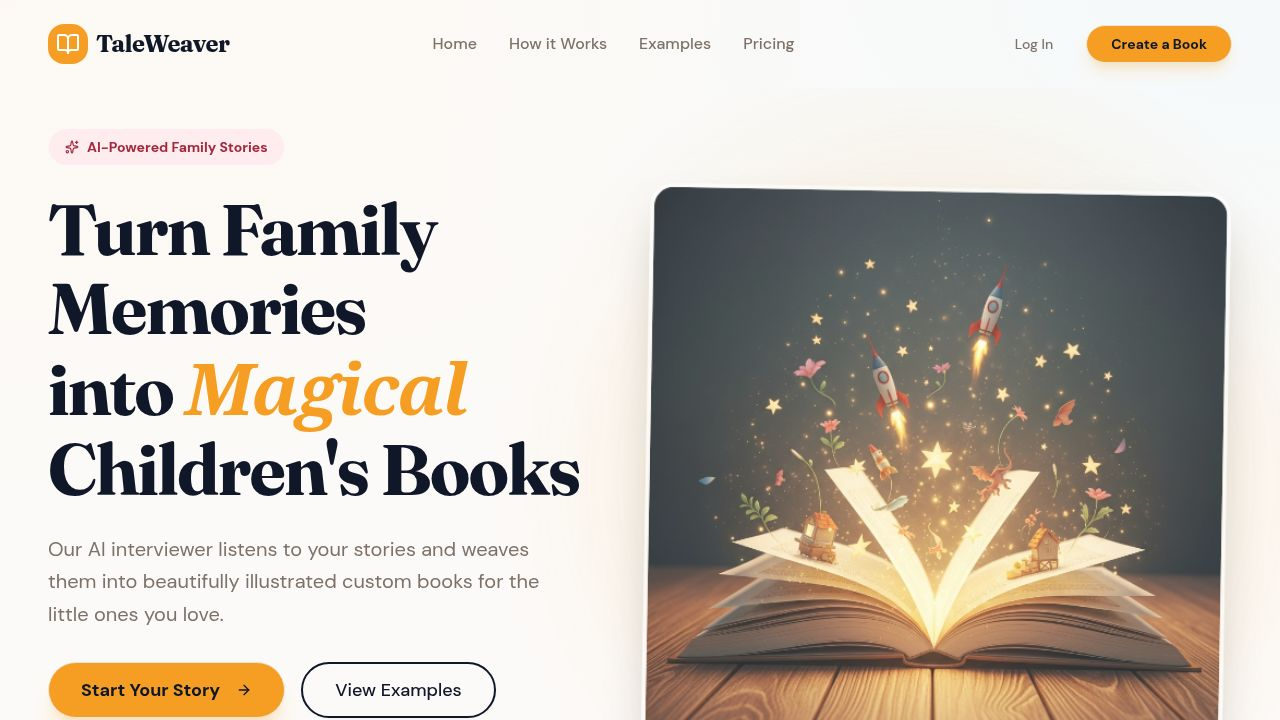
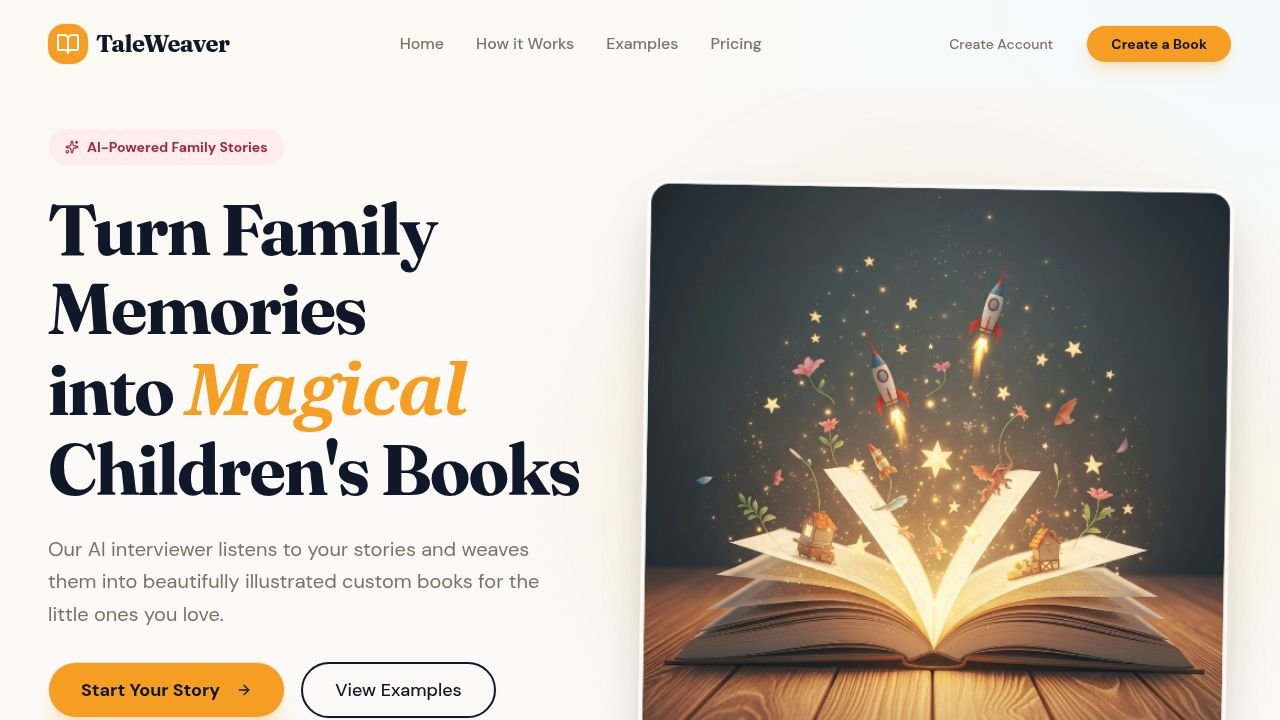
Add a new flow for selecting child recipients and their relationships
Introduce a new `recipient-detail-select` message type and update `ChatInterface.tsx` to handle the logic for selecting a child's recipient relationship after the initial recipient selection.

Replit-Commit-Author: Agent
Replit-Commit-Session-Id: b639b087-0bed-431b-ab66-47ec701dd105
Replit-Commit-Checkpoint-Type: full_checkpoint
Replit-Commit-Event-Id: e6f0b9a5-f127-429d-ae48-77d67628c788
Replit-Commit-Screenshot-Url: https://storage.googleapis.com/screenshot-production-us-central1/63db456a-2923-4ed6-84a3-1c5487e3badf/b639b087-0bed-431b-ab66-47ec701dd105/MDf4w6Q
Replit-Helium-Checkpoint-Created: true

diff --git a/client/src/components/ChatInterface.tsx b/client/src/components/ChatInterface.tsx
@@ -10,7 +10,7 @@ interface Message {
   id: string;
   role: "user" | "assistant";
   content: string;
-  type?: "text" | "recipient-select" | "theme-select" | "format-select" | "photo-upload" | "balance-select";
+  type?: "text" | "recipient-select" | "recipient-detail-select" | "theme-select" | "format-select" | "photo-upload" | "balance-select";
   options?: any;
 }
 
@@ -42,6 +42,7 @@ export function ChatInterface({ onComplete, onUpdateDraft }: ChatInterfaceProps)
   // Draft State
   const [draft, setDraft] = useState({
     recipient: "",
+    recipientRelationship: "",
     theme: "",
     bookType: "",
     photos: [] as string[]
@@ -91,6 +92,16 @@ export function ChatInterface({ onComplete, onUpdateDraft }: ChatInterfaceProps)
       return;
     }
 
+    // Special logic for "A Child" -> asks for specific relationship
+    if (key === "recipient" && value === "A Child") {
+      setDraft(prev => ({ ...prev, [key]: value }));
+      addMessage({ id: Date.now().toString(), role: "user", content: value });
+      simulateTyping(steps.askRecipientDetail);
+      return;
+    }
+
+    // Special logic for "Someone else" if handled via custom input above, but just in case
+    // Standard flow
     setDraft(prev => ({ ...prev, [key]: value }));
     addMessage({ id: Date.now().toString(), role: "user", content: value });
     if (waitingForInput) setWaitingForInput(null);
@@ -98,6 +109,11 @@ export function ChatInterface({ onComplete, onUpdateDraft }: ChatInterfaceProps)
   };
 
   const steps = {
+    askRecipientDetail: () => {
+      addMessage({
+        id: "q-recipient-detail", role: "assistant", content: "How special! Who is the recipient?", type: "recipient-detail-select"
+      });
+    },
     askTheme: () => {
       addMessage({
         id: "q-theme", role: "assistant", content: "Wonderful choice! Now, what kind of adventure should we go on?", type: "theme-select"
@@ -133,6 +149,13 @@ export function ChatInterface({ onComplete, onUpdateDraft }: ChatInterfaceProps)
 
     if (waitingForInput === "custom_recipient") {
       setDraft(prev => ({ ...prev, recipient: input }));
+      setWaitingForInput(null);
+      simulateTyping(steps.askTheme);
+      return;
+    }
+
+    if (waitingForInput === "custom_recipient_detail") {
+      setDraft(prev => ({ ...prev, recipientRelationship: input }));
       setWaitingForInput(null);
       simulateTyping(steps.askTheme);
       return;
@@ -204,7 +227,7 @@ export function ChatInterface({ onComplete, onUpdateDraft }: ChatInterfaceProps)
               {/* Interactive Elements (Only show for latest assistant message) */}
               {msg.type === "recipient-select" && (
                 <div className="ml-11 mt-3 grid grid-cols-2 sm:grid-cols-3 gap-2 w-full max-w-md">
-                   {["Mom", "Dad", "Grandparent", "Aunt", "Uncle", "Family Heritage", "My Child", "Someone else"].map(opt => (
+                   {["Mom", "Dad", "Grandparent", "Aunt", "Uncle", "Family Heritage", "A Child", "Someone else"].map(opt => (
                      <Button 
                         key={opt} 
                         variant="outline" 
@@ -215,6 +238,37 @@ export function ChatInterface({ onComplete, onUpdateDraft }: ChatInterfaceProps)
                        {opt}
                      </Button>
                    ))}
+                </div>
+              )}
+
+              {msg.type === "recipient-detail-select" && (
+                <div className="ml-11 mt-3 grid grid-cols-2 sm:grid-cols-3 gap-2 w-full max-w-md">
+                   {["Son", "Daughter", "Niece", "Nephew", "Cousin", "Grandchild"].map(opt => (
+                     <Button 
+                        key={opt} 
+                        variant="outline" 
+                        onClick={() => handleSelection("recipientRelationship", opt, steps.askTheme)}
+                        className="justify-start h-auto py-3 px-4 hover:border-primary hover:bg-primary/5 transition-all text-left whitespace-normal"
+                        disabled={messages.indexOf(msg) !== messages.length - 1 && !(msg.type === "recipient-detail-select" && waitingForInput === "custom_recipient_detail")}
+                     >
+                       {opt}
+                     </Button>
+                   ))}
+                   <Button 
+                      variant="outline" 
+                      onClick={() => {
+                        addMessage({ id: Date.now().toString(), role: "user", content: "Something else" });
+                        simulateTyping(() => {
+                           addMessage({ id: Date.now().toString(), role: "assistant", content: "Who is the recipient?", type: "text" });
+                           setWaitingForInput("custom_recipient_detail");
+                        });
+                      }}
+                      className="justify-start h-auto py-3 px-4 gap-2 hover:border-primary hover:bg-primary/5 transition-all col-span-1 sm:col-span-2"
+                      disabled={messages.indexOf(msg) !== messages.length - 1 && !(msg.type === "recipient-detail-select" && waitingForInput === "custom_recipient_detail")}
+                   >
+                     <HelpCircle size={16} className="text-muted-foreground" />
+                     Something else
+                   </Button>
                 </div>
               )}
 